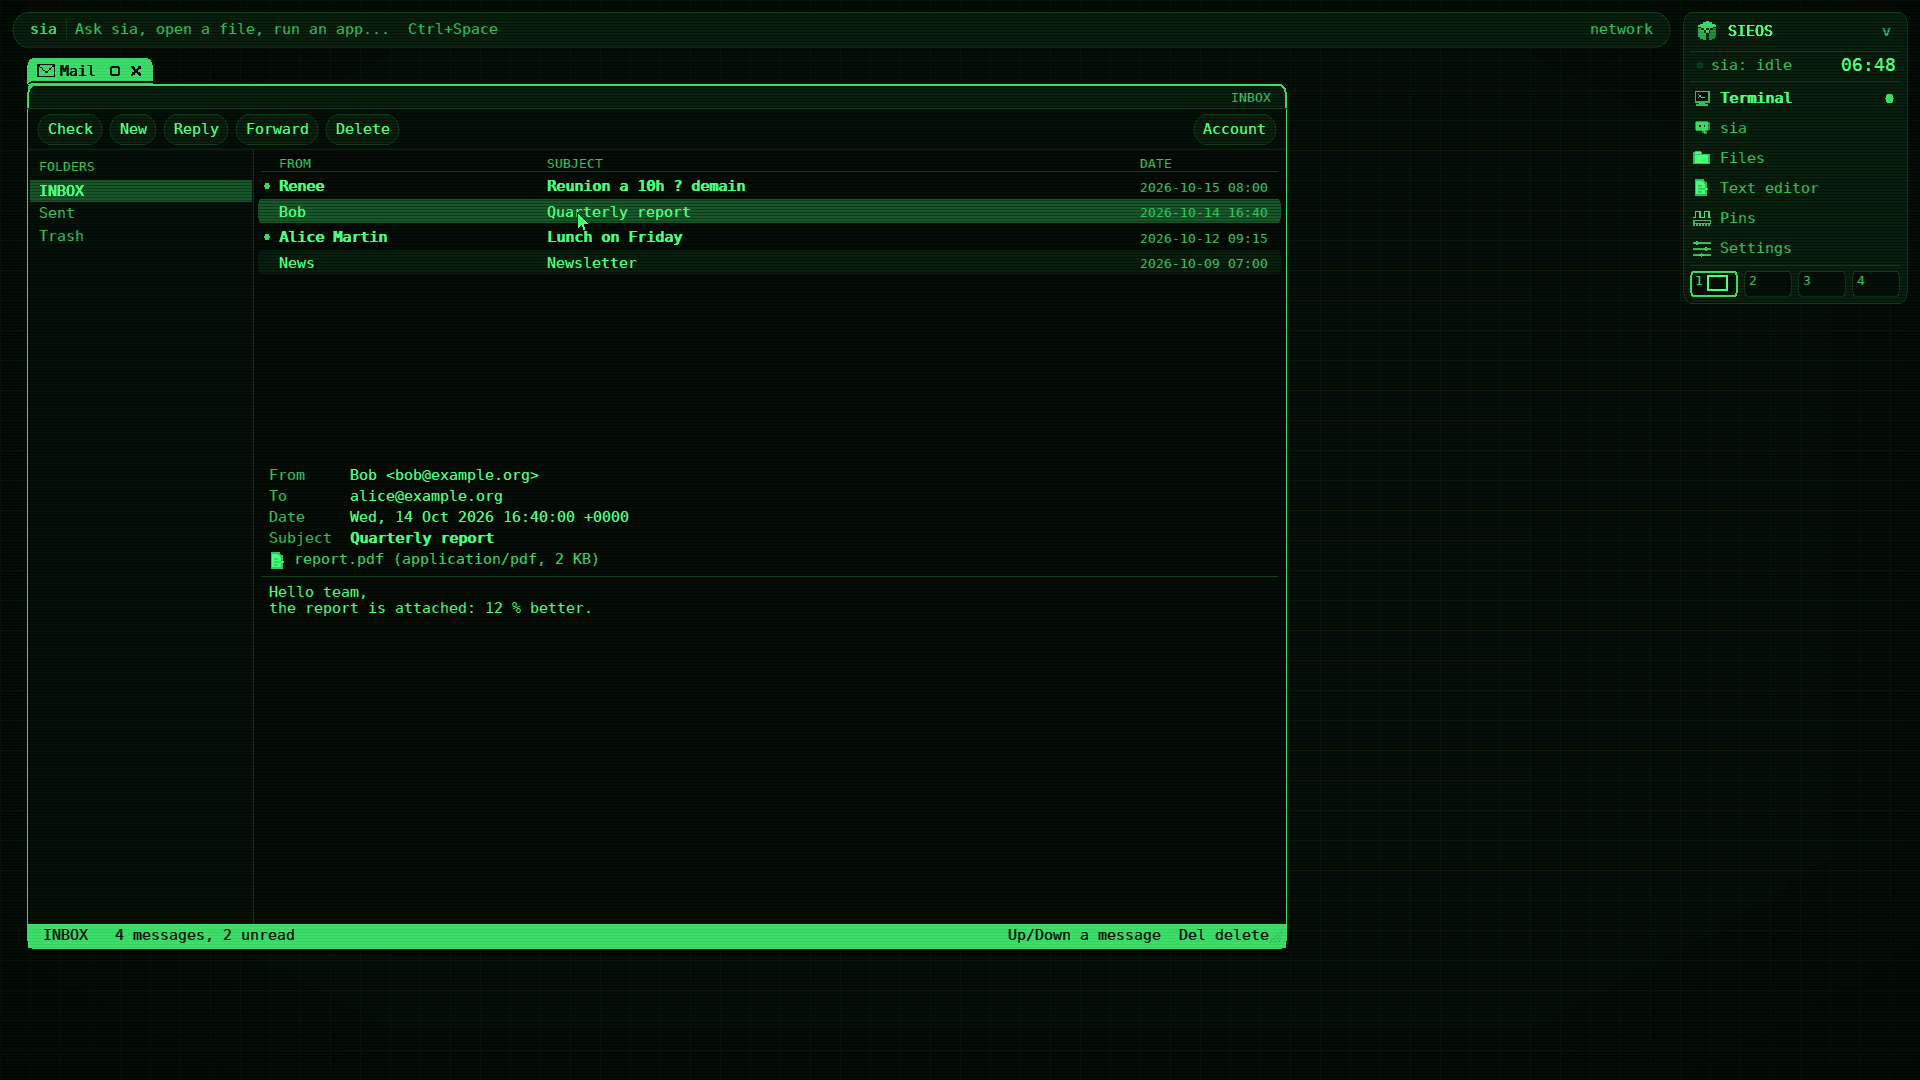
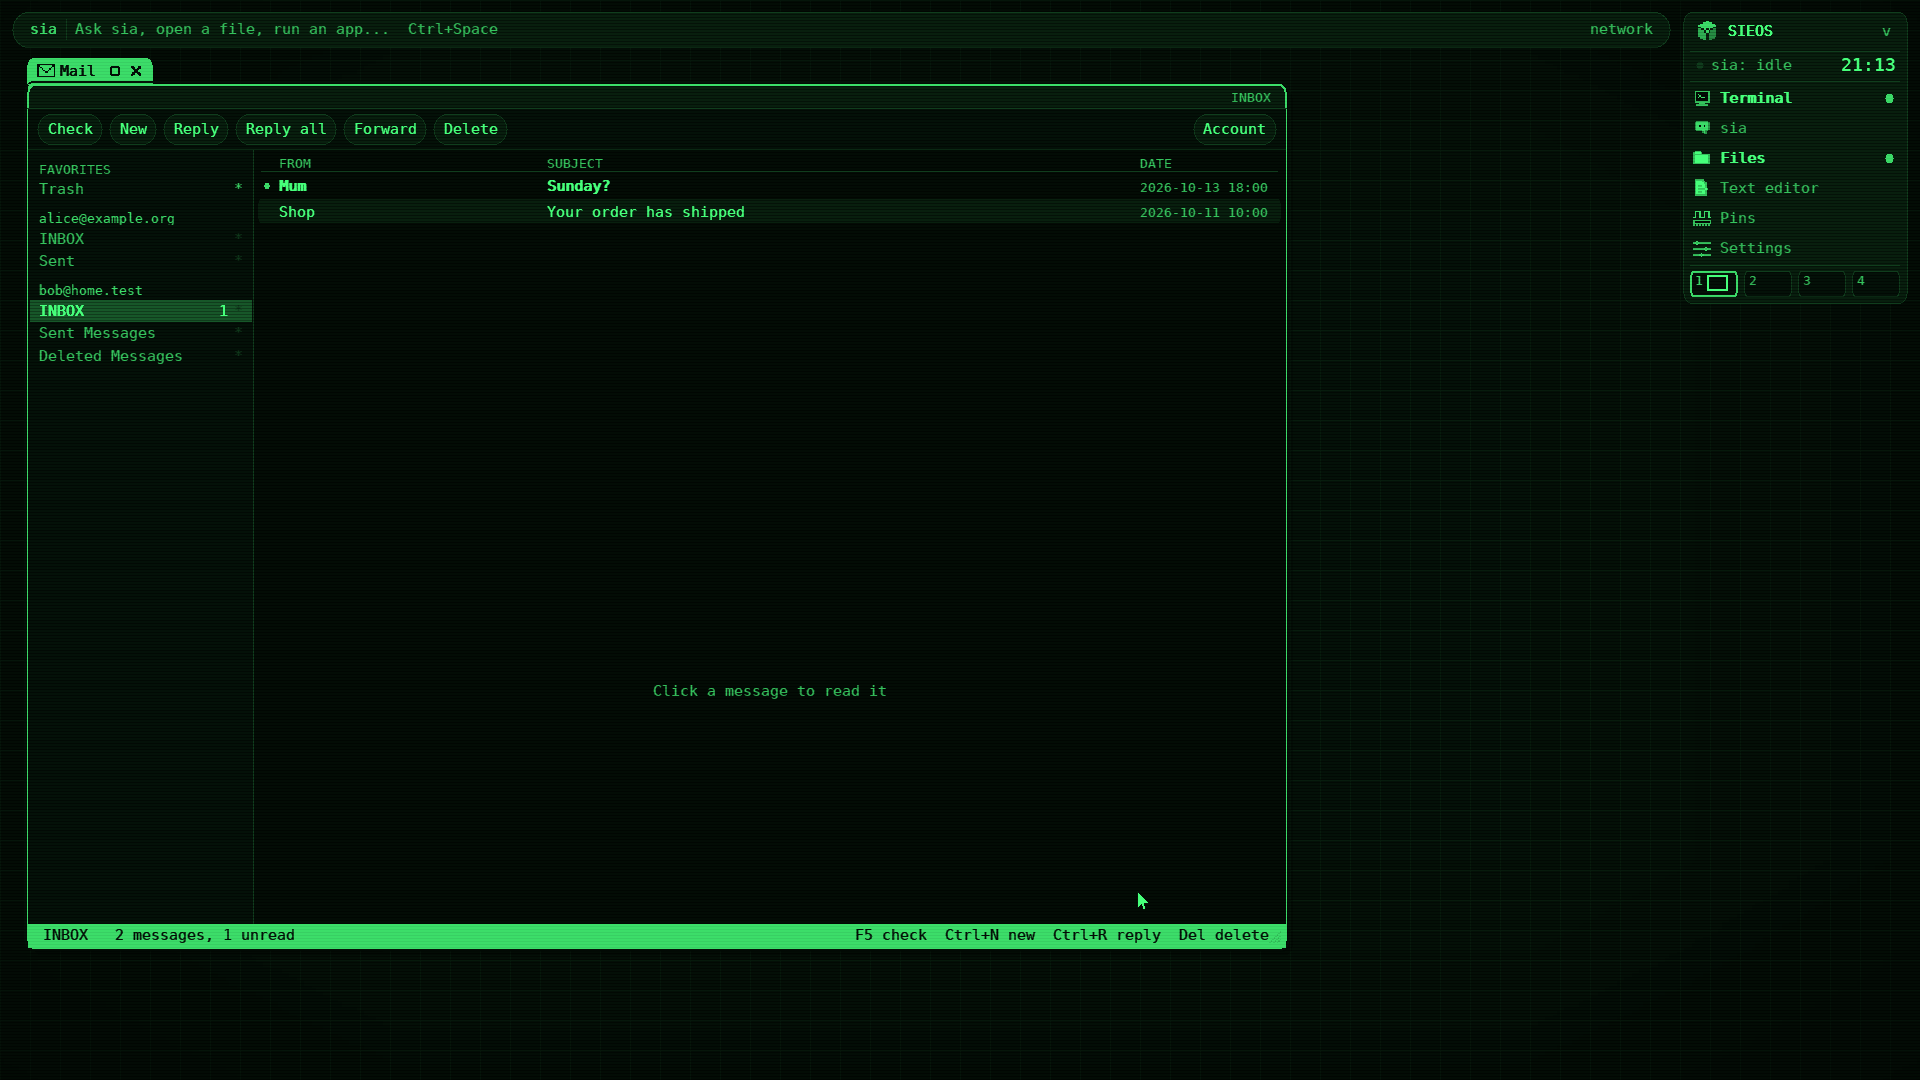
Mail: favorites kept as their fav= lines; docs (desktop.md Mail, status, README), screenshot

diff --git a/user/atlas/mail.c b/user/atlas/mail.c
@@ -61,7 +61,7 @@ static const char *const flabel[NF] = { "Your name", "Address", "Incoming", "Por
 static const char *const keys_[] = { "name", "address", "in_host", "in_port", "out_host", "out_port", "user", "pass",
                                      "in", "keep", "selfsigned", "sent", "in_pin", "out_pin", "fav" };
 
-typedef struct { char f[F_TO][160], pin[2][65], fav[512]; int o[NO]; } acct_t;   /* fav: "\tname" each */
+typedef struct { char f[F_TO][160], pin[2][65], fav[512]; int o[NO]; } acct_t;   /* fav: its ~/.mail lines, "fav=name\n" */
 static acct_t ac[MAXA];
 static int nac, edit, cur, from;         /* the accounts; the one edited, the one shown, the one writing */
 static int view, on, field = -1;
@@ -111,12 +111,15 @@ static int ci(const char *a, const char *b, size_t n)   /* the same n characters
     for (size_t i = 0; i < n; i++) if ((a[i] | 32) != (b[i] | 32) || !a[i]) return 0;
     return 1;
 }
-static int is_fav(int i)
+static char *fav_at(int i, char *line)  /* folder i's "fav=name\n" in its account's, or 0 */
 {
-    const char *f = ac[fo[i].a].fav, *n = fo[i].name;
-    for (size_t l = strlen(n); (f = find(f, "\t")); f++) if (!memcmp(f + 1, n, l) && (!f[l + 1] || f[l + 1] == '\t')) return 1;
-    return 0;
+    char *f = ac[fo[i].a].fav, *p = f;
+    strlcpy(line + strlcpy(line, "fav=", 72), fo[i].name, 66);
+    strlcpy(line + strlen(line), "\n", 2);
+    while ((p = (char *)find(p, line)) && p > f && p[-1] != '\n') p++;
+    return p;
 }
+static int is_fav(int i) { char l[72]; return fav_at(i, l) != 0; }
 
 static void helper(void)
 {
@@ -381,7 +384,7 @@ static void acct_load(void)
         else if (key == 8) a->o[O_POP] = !strcmp(v, "pop3");
         else if (key < 12) a->o[key - 8] = key == 10 ? v[0] == '1' : v[0] != '0';
         else if (key < 14) strlcpy(a->pin[key - 12], v, 65);
-        else if (key == 14 && strlen(a->fav) + n + 2 < sizeof a->fav) { strlcpy(a->fav + strlen(a->fav), "\t", 2); strlcpy(a->fav + strlen(a->fav), v, 400); }
+        else if (key == 14 && strlen(a->fav) + (e - l) + 2 < sizeof a->fav) { strlcpy(a->fav + strlen(a->fav), l, e - l + 2); }
     }
     if (t) wipe(t, strlen(t));
     free(t);
@@ -406,13 +409,7 @@ static int acct_write(void)
         put(t, &n, "in", a->o[O_POP] ? "pop3" : "imap");
         for (int o = O_KEEP; o < NO; o++) put(t, &n, keys_[8 + o], a->o[o] ? "1" : "0");
         for (int w = 0; w < 2; w++) if (a->pin[w][0]) put(t, &n, keys_[12 + w], a->pin[w]);
-        for (char *s = a->fav, *e; *s; s = e) {
-            char nm[64];
-            e = (char *)find(s + 1, "\t");
-            if (!e) e = s + strlen(s);
-            strlcpy(nm, s + 1, e - s < 64 ? e - s : 64);
-            put(t, &n, "fav", nm);
-        }
+        n += strlcpy(t + n, a->fav, sizeof a->fav);
     }
     path_of(p, "/.mail");
     long h = fs_open(p, FS_WRONLY | FS_CREAT | FS_TRUNC, 0600), r = h;
@@ -445,6 +442,7 @@ static void acct_form(int k)
 }
 
 /* ---- Writing: new, reply, reply all, forward; sent through a draft file. */
+static int has(const char *l, const char *a, size_t n) { for (; *l; l++) if (ci(l, a, n)) return 1; return 0; }
 static void others(char *dst, const char *src)           /* src's addresses not ours, not in To, not in dst: added to dst */
 {
     for (const char *p = src; *p; ) {
@@ -455,10 +453,8 @@ static void others(char *dst, const char *src)           /* src's addresses not 
         while (t > s && t[-1] == ' ') t--;
         a = s; ae = t;
         for (const char *c = s; c < t; c++) { if (*c == '<') a = c + 1; if (*c == '>') ae = c; }
-        int skip = ae <= a;
+        int skip = ae <= a || has(fld[F_TO], a, ae - a) || has(dst, a, ae - a);
         for (int k = 0; k < nac && !skip; k++) skip = strlen(ac[k].f[F_ADDR]) == (size_t)(ae - a) && ci(ac[k].f[F_ADDR], a, ae - a);
-        for (const char *c = fld[F_TO]; *c && !skip; c++) skip = ci(c, a, ae - a);
-        for (const char *c = dst; *c && !skip; c++) skip = ci(c, a, ae - a);
         size_t n = strlen(dst);
         if (!skip && n + (t - s) + 3 < sizeof fld[0]) { if (n) n += strlcpy(dst + n, ", ", 3); memcpy(dst + n, s, t - s); dst[n + (t - s)] = 0; }
         p = *e ? e + 1 : e;
@@ -909,14 +905,11 @@ int mail_click(int kind, int arg)
     if (arg >= M_ROW) open_msg(arg - M_ROW);
     else if (arg >= M_STAR) {                            /* a favorite, or not any more */
         int i = arg - M_STAR;
-        acct_t *a = &ac[fo[i].a];
-        char *f = a->fav, *p = f;
-        size_t l = strlen(fo[i].name);
-        if (is_fav(i)) {
-            while ((p = (char *)find(p, "\t")) && !(!memcmp(p + 1, fo[i].name, l) && (!p[l + 1] || p[l + 1] == '\t'))) p++;
-            memmove(p, p + l + 1, strlen(p + l + 1) + 1);
-        } else if (strlen(f) + l + 2 < sizeof a->fav) { strlcpy(f + strlen(f), "\t", 2); strlcpy(f + strlen(f), fo[i].name, 64); }
-        say("atlas: mail: favorites %d:%s\n", fo[i].a, a->fav);
+        char *f = ac[fo[i].a].fav, l[72], *p = fav_at(i, l);
+        size_t n = strlen(l);
+        if (p) memmove(p, p + n, strlen(p + n) + 1);
+        else if (strlen(f) + n < sizeof ac[0].fav) strlcpy(f + strlen(f), l, n + 1);
+        say("atlas: mail: favorites %d: %s\n", fo[i].a, p ? "-" : l);
         if (acct_write() < 0) set_status("Could not save the accounts.", 1);
     } else if (arg >= M_FOLDER) {
         cur = fo[arg - M_FOLDER].a;

diff --git a/tools/mailtest.py b/tools/mailtest.py
@@ -405,7 +405,7 @@ keys("delete")
 wait(f"atlas: mail: delete {uid}: Deleted", timeout=60)
 if srv.imap["Trash"]: fail(f"still in the Trash: {srv.imap['Trash']}")
 press("mailstar", "0/Trash")
-wait("atlas: mail: favorites 0:\tTrash")
+wait("atlas: mail: favorites 0: fav=Trash")
 keys("f5")
 got = wait("atlas: mail: folders 0: ", timeout=60)
 latest("mailfolder", "0/Trash")

diff --git a/docs/desktop.md b/docs/desktop.md
@@ -165,8 +165,8 @@ Click it or press Ctrl+Space, then type a few letters: the results drop
 down under it, grouped: **Files** (by name, in your home folder), **Apps**
 (your `.app` launchers and those of `/etc/apps`), and **Ask sia**. Enter
 opens the first result, Tab asks sia, Esc closes the results. Text
-starting with `?` only offers the question. Typing when no window has the
-keys goes to the strip too.
+starting with `?` only offers the question; a `mailto:` link opens Mail,
+writing to it. Typing when no window has the keys goes to the strip too.
 
 ![the sia strip](screens/strip.png)
 
@@ -180,6 +180,7 @@ keys goes to the strip too.
 | Ctrl+Tab | the next window of this workspace, in front |
 | Ctrl+1 .. Ctrl+4 | a workspace |
 | Ctrl+S | save (editor) |
+| Ctrl+N, Ctrl+R, Ctrl+Shift+R, Ctrl+L, F5, Ctrl+Enter | Mail: new, reply, reply all, forward, check, send |
 | Ctrl+V, middle button | paste (terminal, editor, assistant, strip, Settings) |
 | Ctrl+C (terminal) | stop the program running there (SIGINT); closing the window hangs it up (SIGHUP) |
 | PgUp / PgDn, the wheel | a terminal's history |
@@ -318,67 +319,108 @@ kind=terminal
 *Mail* (the menu, or "mail" in the strip) reads mail with **IMAP** or
 **POP3** and sends it with **SMTP**, always over TLS (1.3, or 1.2 for
 servers that know no better, as many mail providers) with the
-certificate checked against `/etc/ssl/roots`.
+certificate checked against `/etc/ssl/roots`, or pinned (below).
 
-![Mail: INBOX and a message](screens/mail.png)
+![Mail: two accounts, a favorite folder, INBOX](screens/mail.png)
 
-- **The account**, asked the first time (and with *Account*): your name,
-  address, how mail comes (IMAP or POP3; for POP3, *Leave on server*,
-  yes by default), the incoming and outgoing servers and ports, user name
-  (the address if empty) and password. Kept in `~/.mail` (key=value
-  lines, mode 600, in your home, which is encrypted). Ports 993 (IMAP),
-  995 (POP3) and 465 (SMTP) speak TLS at once; others (143, 110, 587)
-  start in clear and must switch to TLS (STARTTLS, STLS) before the
-  password is sent, or nothing is sent.
-- **The window:** the buttons (*Check*, *New*, *Reply*, *Forward*,
-  *Delete*, *Account*); the folders on the left (IMAP's LIST; POP3:
-  INBOX); the newest 100 messages (from, subject, date; newest first;
-  unread ones bold, with a dot); under them the message clicked:
-  From, To, Cc, Date, Subject, the attachments by name (not opened), and
-  the text wrapped to the window (the wheel or PgUp/PgDn scrolls it).
-  Up/Down opens the next one, Del deletes. Opening a message marks it read.
+- **The accounts**, asked the first time (and with *Account*, or a click
+  on an account's name in the folders): pick one at the top, or *New
+  account*; *Remove* removes the one shown. Each has your name, address,
+  how mail comes (IMAP or POP3; for POP3, *Leave on server*, yes by
+  default; for IMAP, *Copy to Sent*, yes by default), the incoming and
+  outgoing servers and ports, user name (the address if empty), password
+  and *Accept a self-signed certificate* (no by default). Kept in
+  `~/.mail` (key=value lines, a line `[account]` before each account
+  after the first, so a file of one account is as it always was; mode
+  600, in your home, which is encrypted). Ports 993 (IMAP), 995 (POP3)
+  and 465 (SMTP) speak TLS at once; others (143, 110, 587) start in clear
+  and must switch to TLS (STARTTLS, STLS) before the password is sent, or
+  nothing is sent.
+- **Self-signed certificates** (a server at home): with the option on, a
+  certificate no authority signed is shown, by its SHA-256, in a band
+  over the status line; *Accept* pins it (`in_pin`, `out_pin`: the
+  incoming and the outgoing server each) and from then on that
+  certificate only is taken from that server, whatever its name or date,
+  and any other is refused ("the server's certificate changed"). Turning
+  the option off forgets the pins. The server must still prove it holds
+  the certificate's key, as always.
+- **The window:** the buttons (*Check*, *New*, *Reply*, *Reply all*,
+  *Forward*, *Delete*, *Account*); on the left, the favorite folders,
+  then each account's (IMAP's LIST; POP3: INBOX), with their unread
+  messages (IMAP STATUS); the `*` at a folder's right makes it a favorite
+  or not (kept in `~/.mail`, `fav=` lines); the newest 300 messages of
+  the folder clicked (from, subject, date; newest first; unread ones bold,
+  with a dot); under them the message clicked: From, To, Cc, Date,
+  Subject, the attachments (a click saves one into `~/Downloads`, decoded,
+  numbered `1-name` if the name is taken), and the text wrapped to the
+  window (the wheel or PgUp/PgDn scrolls it). Opening a message marks it
+  read.
 - **The text:** the text/plain part of a MIME message (else its HTML,
   tags stripped), quoted-printable and base64 decoded, Latin-1 made
   UTF-8, encoded words (`=?UTF-8?B?...?=`) in the headers decoded. The
   desktop's font is ASCII: accents are dropped, other characters show as
   `?` (`mail read` on a terminal shows the UTF-8).
-- **Writing:** *New*, *Reply* (to the sender, "Re:", the text quoted with
-  `>`, `In-Reply-To` and `References`), *Forward* (the text under a
-  "Forwarded message" header); To, Cc (addresses separated by commas),
-  Subject and the text; Tab goes to the next field; *Send*. The message
-  goes out as UTF-8 text with Date and Message-ID, CRLF lines, and lines
-  starting with a dot doubled. No copy is kept (most providers keep one).
-- **Delete:** IMAP: flagged `\Deleted`, then EXPUNGE; POP3: the copy here
-  and the server's (DELE).
-- **POP3** keeps the messages in `~/Mail/INBOX`, one file each named by
-  the server's UIDL, so none is fetched twice; read ones carry the
-  attribute `seen=1`. With *Leave on server* off, each is deleted from the
-  server once it is here. Messages over 1 MiB are left on the server.
+- **Writing:** *New*, *Reply* (to the sender, or its Reply-To; "Re:", the
+  text quoted with `>`, `In-Reply-To` and `References`), *Reply all*
+  (also the others of To and Cc, in Cc, but none of your addresses),
+  *Forward* (the text under a "Forwarded message" header, and its
+  attachments); *From* (with several accounts: the one it goes from; the
+  folder's by default); To, Cc (addresses separated by commas), Subject
+  and the text; Tab goes to the next field; *Attach* opens Files: a
+  double-click on a file attaches it (a click on its name, under Subject,
+  takes it off); *Send*. The message goes out as UTF-8 text (with files:
+  multipart/mixed, each file base64) with Date and Message-ID, CRLF lines,
+  and lines starting with a dot doubled. A copy goes into the account's
+  Sent folder (IMAP APPEND; the folder flagged `\Sent`, else one named
+  Sent, Sent Items, Sent Mail or Sent Messages) unless *Copy to Sent* is
+  off.
+- **Delete:** IMAP: into the Trash (the folder flagged `\Trash`, else one
+  named Trash, Deleted Items, Deleted Messages or Bin: COPY, then
+  `\Deleted` and EXPUNGE); in the Trash (or with none), for good. POP3:
+  the copy here and the server's (DELE).
+- **mailto: links**: typed in the sia strip (`mailto:bob@example.org?subject=Hi`
+  and Enter), Mail opens writing to that address, the link's subject,
+  Cc and body filled in; `mail mailto:...` on a terminal does the same
+  there (the text typed, a line with one `.` sends it).
+- **Keys:** Up/Down the message before / after, Del delete, F5 check,
+  Ctrl+N new, Ctrl+R reply, Ctrl+Shift+R reply all, Ctrl+L forward;
+  writing: Ctrl+Enter send, Esc cancel (also the account form).
+- **POP3** keeps the messages in `~/Mail/INBOX` (another account's in
+  `~/Mail/INBOX-N`), one file each named by the server's UIDL, so none is
+  fetched twice; read ones carry the attribute `seen=1`. With *Leave on
+  server* off, each is deleted from the server once it is here. Messages
+  over 8 MiB are left on the server.
 
 The window does no networking itself. It starts **`/bin/mail -S`** as
 you, on the console `atlas#1000`, and talks to it like a terminal does:
 each command is the answer to the helper's `CON_READ` (one line, words
-separated by tabs), and its answer comes back with `CON_WRITE`, ending in
-a line of one `\x1e` byte. So the desktop never waits for a server,
-atlas does not link TLS (it grows by 22 KB, the window, instead of about 80 KB with the protocols and TLS), and
-what comes from the network is parsed by a process of yours, not by the
-desktop, which runs as root. The helper keeps its IMAP connection between
-commands and is ended when the window closes or you log out.
+separated by tabs, the account first: `-a 1`), and its answer comes back
+with `CON_WRITE`, ending in a line of one `\x1e` byte. So the desktop
+never waits for a server, atlas does not link TLS (the window is 31
+KB of atlas, instead of about 90 KB with the protocols and TLS), and what
+comes from the network is parsed by a process of yours, not by the
+desktop, which runs as root. The helper keeps one IMAP connection per
+account between commands (a changed account connects again) and is
+ended when the window closes or you log out. Attachments are saved, and
+files attached are read, by the helper, as you.
 
 ```
-   atlas (Mail window) ──"list\tINBOX"──► mail -S (as you) ──IMAP / POP3 / SMTP, TLS──► servers
+   atlas (Mail window) ──"-a 0  list  INBOX"──► mail -S (as you) ──IMAP / POP3 / SMTP, TLS──► servers
                        ◄──lines, then \x1e──┘
 ```
 
-The same program is a command, on a terminal:
+The same program is a command, on a terminal (`-a N` first: the Nth
+account, from 0; the first by default):
 
 | Command | What it does |
 |---|---|
-| `mail` / `mail list [FOLDER]` | the newest 100 messages: id, `*` if unread, date, from, subject (tab-separated) |
-| `mail folders` | the folders |
+| `mail` / `mail list [FOLDER]` | the newest 300 messages: id, `*` if unread, date, from, subject (tab-separated) |
+| `mail folders` | the folders and their unread messages (tab-separated) |
 | `mail read ID [FOLDER]` | a message as text (and marked read) |
-| `mail delete ID [FOLDER]` | deleted |
-| `mail send FILE` | a draft: `To:`, `Cc:`, `Subject:` lines, a blank line, the text |
+| `mail save ID [FOLDER [N [DIR]]]` | its attachments (or the Nth) into `~/Downloads` (or DIR) |
+| `mail delete ID [FOLDER]` | into the Trash; from the Trash, for good |
+| `mail send FILE` | a draft: `To:`, `Cc:`, `Subject:`, `Attach:` (a file, one a line) lines, a blank line, the text |
+| `mail mailto:URL` | a message to the link's address: the text typed, then sent |
 
 ## How it works
 
@@ -495,17 +537,24 @@ and the time of each full frame; nothing is logged without it. `make
 gui-test-real` does the same with the real sia and a model on the test
 disk.
 
-`make mail-test` (both architectures; 42 s on x86-64, 86 s on AArch64
-emulated) runs Mail against `tools/mailserver.py` on the host (IMAP,
-POP3 and SMTP over TLS, with a certificate from a test CA made by openssl
-for the run and added to the test disk's `/etc/ssl/roots` only), reached
-at 10.0.2.100 on the usual ports through QEMU's `guestfwd`: the account
-form; INBOX's four seeded messages (quoted-printable, base64 multipart
-with an attachment, encoded-word subject and sender, HTML only) in order,
-unread ones counted; one read (`\Seen` on the server); a reply and a new
-message checked byte for byte on the host (CRLF, the doubled dot, Date,
-Message-ID, In-Reply-To, the recipients); one deleted; `mail list`,
-`read`, `folders` on the console; POP3 in the window (list, read, delete,
-nothing fetched twice); POP3 with STLS and *Leave on server* off, SMTP on
-465, IMAP with STARTTLS and a wrong password from the command line.
-Screenshots: `mail-*.png` in the build's `screens`.
+`make mail-test` (both architectures; 75 s on x86-64) runs Mail against
+two servers of `tools/mailserver.py` on the host (IMAP, POP3 and SMTP over
+TLS): the first with a certificate from a test CA made by openssl for the
+run and added to the test disk's `/etc/ssl/roots` only, at 10.0.2.100; the
+second, self-signed, at 10.0.2.101 (QEMU's `guestfwd`). The account form;
+the folders' unread counts; INBOX's four seeded messages (quoted-printable,
+base64 multipart with an attachment, encoded-word subject and sender, HTML
+only) in order, unread ones counted; one read (`\Seen` on the server), its
+attachment saved; a reply and a new message checked byte for byte on the
+host (CRLF, the doubled dot, Date, Message-ID, In-Reply-To, the
+recipients), the reply's copy in Sent (APPEND); a reply all (the others in
+Cc, not us); a file attached from Files and a forward with its attachment,
+compared with the original bytes; a mailto: link from the strip; delete
+into the Trash, then from it for good; a favorite folder; `mail list`,
+`read`, `folders`, `mail mailto:` on the console; a second account: its
+self-signed certificate refused, then shown (the SHA-256 compared with
+openssl's), accepted and pinned for both servers, its folders found by
+name, a message sent from it (its copy in "Sent Messages"), a changed
+certificate refused; POP3 in the window (list, read, delete, nothing
+fetched twice); POP3 with STLS and *Leave on server* off, SMTP on 465, IMAP
+with STARTTLS and a wrong password from the command line.

diff --git a/docs/status.md b/docs/status.md
@@ -117,6 +117,22 @@ checklist in [raspberrypi.md](raspberrypi.md).
   and zlib (inflate, a small deflate) in `lib/`. Host git fsck accepts what
   SIEOS pushes and the repositories it makes (`make git-test`). The Git
   window on the desktop drives `/bin/git` ([desktop.md](desktop.md#git)).
+- **2026-10-16.** Mail grows to what `../mailbox` (the Linux client in
+  Atlas's look) does ([desktop.md](desktop.md#mail)): several accounts
+  (`[account]` sections in `~/.mail`; a one-account file reads as
+  before), each with its folders, unread counts (STATUS) and connection,
+  a From choice when writing, an account editor (pick, new, remove);
+  self-signed certificates accepted per account, their SHA-256 shown and
+  pinned (`tls_open`: that certificate only, the key still proven; a
+  changed one refused); favorite folders at the top; the newest 300
+  messages; attachments saved (`~/Downloads`), files attached (picked in
+  Files; multipart/mixed, base64), forwarded with the message; Reply all;
+  Delete into the Trash (SPECIAL-USE `\Trash` or its usual names), for
+  good from it; a copy of what is sent in Sent (APPEND); `mailto:` links
+  (the sia strip, `mail mailto:`); Ctrl+N/R/Shift+R/L, F5, Ctrl+Enter (con
+  now tells Ctrl+Enter and Ctrl+Shift+letters apart). atlas.elf +8.8 KB
+  (the window: 31 KB of code), mail.elf +13 KB. `make mail-test` covers it
+  all against two host servers.
 - **2026-10-16.** Mail ([desktop.md](desktop.md#mail)): a window of the
   desktop (folders, messages, reading, writing, replying, forwarding,
   deleting, the account) and `/bin/mail`, which does the talking: IMAP or

diff --git a/README.md b/README.md
@@ -157,7 +157,7 @@ tour, file by file, with the crash and on-demand mechanisms:
   Intel e1000/e1000e (any QEMU `-nic user` works).
 - **SSH** ([docs/ssh.md](docs/ssh.md)): `ssh`, `ssh-keygen` and `sshd`,
   interoperable with OpenSSH (Ed25519 keys, chacha20-poly1305).
-- **Mail**: IMAP, POP3 and SMTP over TLS: the Mail window and `mail`.
+- **Mail**: IMAP, POP3 and SMTP over TLS, several accounts, attachments, Trash and Sent, pinned self-signed certificates: the Mail window and `mail`.
 - **sia, the assistant** ([docs/sia.md](docs/sia.md)): below.
 - **sicc, the C compiler** ([docs/cc.md](docs/cc.md)): below.
 - **make** ([docs/make.md](docs/make.md)): `/bin/make` builds C projects on
